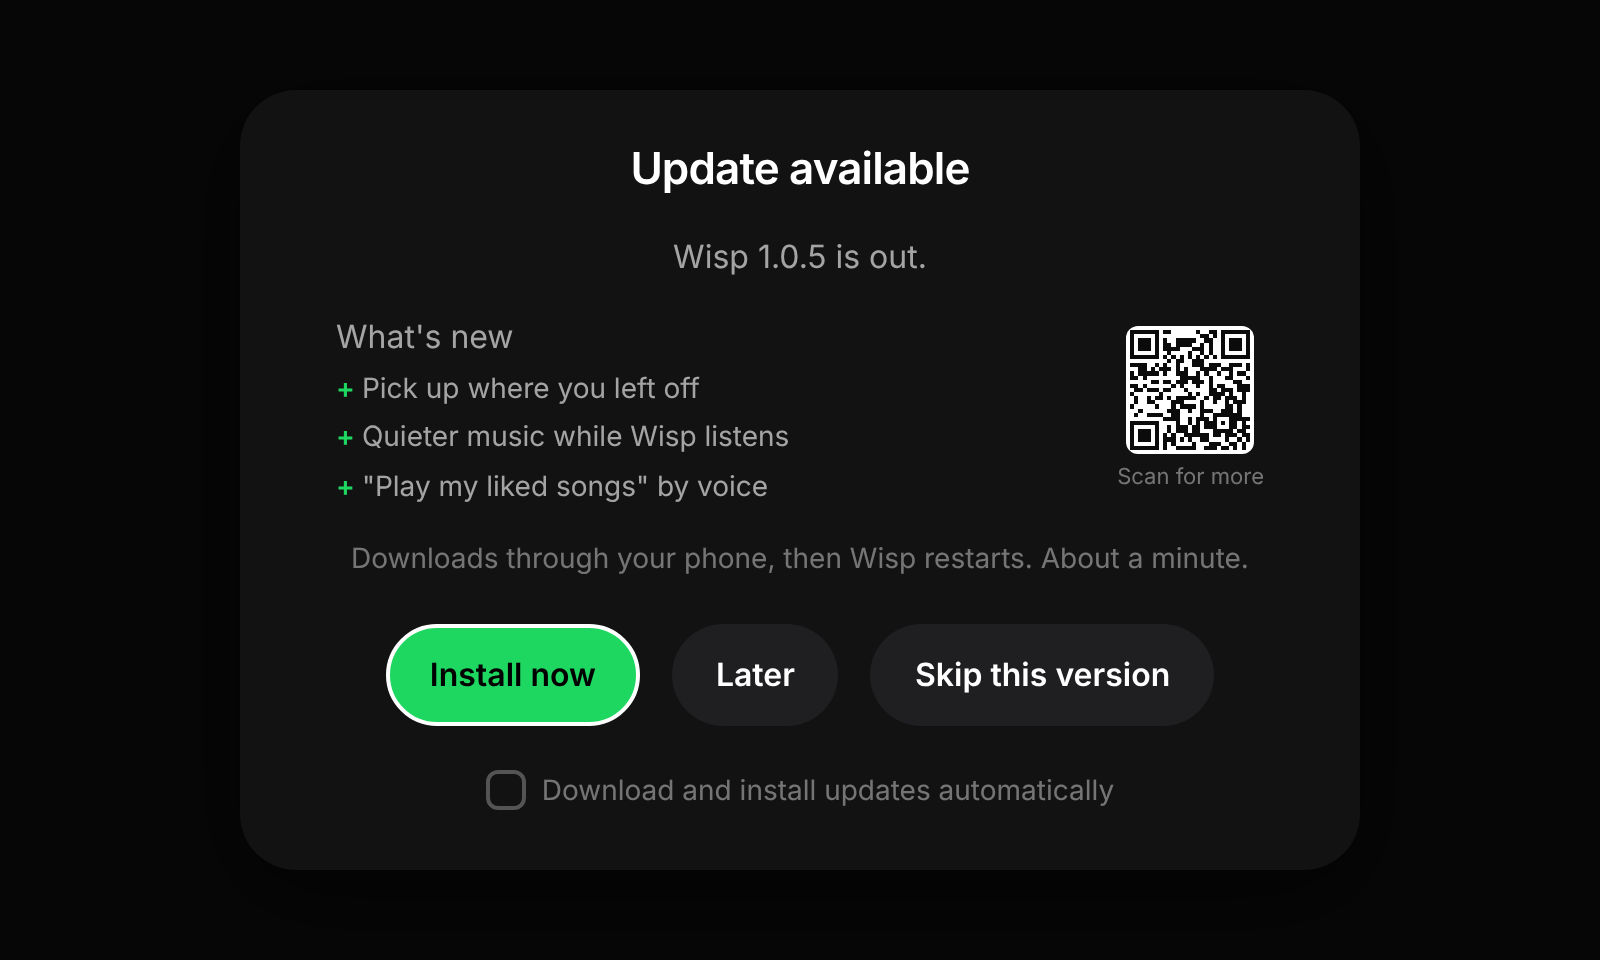
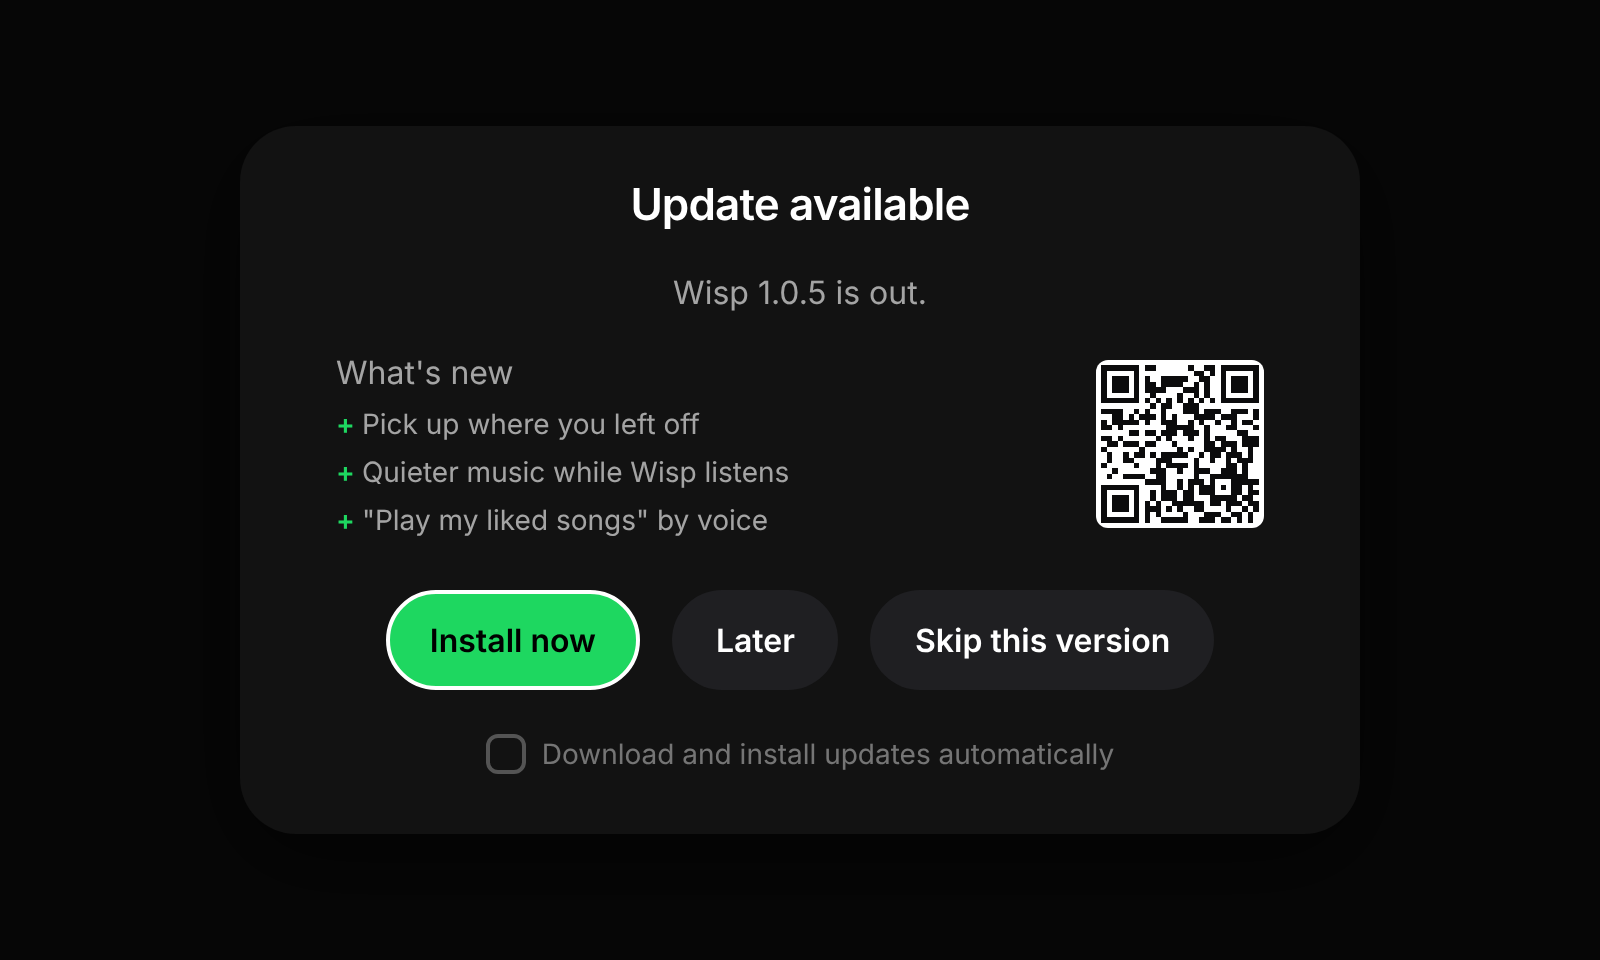
Wisp 1.0.7: search for any address
Update card without the download line and with a bigger QR; What's new
1.0.7, badges, Updates page; Wisp app 1.0.6.

Claude-Session: https://claude.ai/code/session_014AnyBR8jm1c8a5TwMw684b

diff --git a/docs/new/1.0.7.html b/docs/new/1.0.7.html
@@ -1,0 +1,121 @@
+<!doctype html>
+<html lang="en">
+<head>
+<meta charset="utf-8">
+<meta name="viewport" content="width=device-width, initial-scale=1">
+<title>What's new in Wisp 1.0.7</title>
+<meta name="description" content="Wisp 1.0.7 for the Spotify Car Thing: search for any address, Spotify that keeps playing, better notifications and voice.">
+<meta name="theme-color" content="#08080a">
+<link rel="icon" href="../logo.svg" type="image/svg+xml">
+<link rel="preconnect" href="https://fonts.googleapis.com">
+<link rel="preconnect" href="https://fonts.gstatic.com" crossorigin>
+<link href="https://fonts.googleapis.com/css2?family=Inter:wght@400;500;600;650;700&display=swap" rel="stylesheet">
+<link rel="stylesheet" href="../site.css">
+</head>
+<body>
+<header class="top">
+  <div class="wrap">
+    <a class="brand" href="../" aria-label="Wisp, home"><img src="../logo.svg" alt="">Wisp</a>
+    <a class="ver" href="1.0.7.html" title="What's new in 1.0.7" aria-current="page">1.0.7</a>
+    <nav class="links" id="nav-links" aria-label="Main">
+      <a href="../#features">Features</a>
+      <a href="../#directions">Directions</a>
+      <a href="../#addons">Add-ons</a>
+      <a href="../use.html">How to use</a>
+      <a href="../guide.html">Set up</a>
+      <a href="../studio.html">Add-on Studio</a>
+      <a href="../updates.html">Updates</a>
+    </nav>
+    <div class="top-actions">
+      <a class="gh" href="https://github.com/picovrfbt/WispOS" aria-label="Wisp on GitHub"><svg width="20" height="20" viewBox="0 0 24 24" fill="currentColor" aria-hidden="true"><path d="M12 .5a11.5 11.5 0 0 0-3.64 22.41c.58.1.79-.25.79-.56v-2c-3.2.7-3.88-1.37-3.88-1.37-.52-1.33-1.28-1.68-1.28-1.68-1.04-.71.08-.7.08-.7 1.16.08 1.77 1.19 1.77 1.19 1.03 1.76 2.7 1.25 3.36.96.1-.75.4-1.25.73-1.54-2.55-.29-5.24-1.28-5.24-5.69 0-1.26.45-2.29 1.19-3.09-.12-.29-.52-1.46.11-3.05 0 0 .97-.31 3.17 1.18a11 11 0 0 1 5.77 0c2.2-1.49 3.17-1.18 3.17-1.18.63 1.59.23 2.76.11 3.05.74.8 1.19 1.83 1.19 3.09 0 4.42-2.7 5.4-5.26 5.68.41.36.78 1.06.78 2.14v3.17c0 .31.21.67.8.56A11.5 11.5 0 0 0 12 .5z"/></svg></a>
+      <a class="btn primary dl" href="https://github.com/picovrfbt/WispOS/releases/latest">Download</a>
+      <button class="menu-btn" type="button" aria-expanded="false" aria-controls="nav-links" aria-label="Menu"><span></span></button>
+    </div>
+  </div>
+</header>
+
+<main class="doc whatsnew">
+<div class="wrap">
+  <p class="eyebrow">What's new · October 20, 2026</p>
+  <h1>Wisp 1.0.7</h1>
+  <p class="lead-doc">Search for any address, Spotify that keeps playing, notifications that behave, and a Wisp that hears you out.</p>
+  <div class="cta-row">
+    <a class="btn primary" href="../use.html#settings">How to update</a>
+    <a class="btn" href="1.0.6.html">What came in 1.0.6</a>
+  </div>
+
+  <div class="news">
+    <article class="news-card">
+      <img src="../screenshots/nav-search.png" alt="Search: an address typed with the knob, with the matches below" loading="lazy">
+      <div><span class="tag">Directions</span><h2>Search for any address</h2>
+        <p>Pick Search on Where to? and type with the knob or the screen, say "Okay Wisp, take me to…" and pick from the matches, or type it in the Wisp app.</p>
+        <a href="../use.html#directions">How it works ›</a></div>
+    </article>
+    <article class="news-card">
+      <img src="../screenshots/turn-banner.png" alt="The next turn at the top of the player" loading="lazy">
+      <div><span class="tag">Notifications</span><h2>A turn banner that gets out of the way</h2>
+        <p>The next turn shows for 5 seconds, and again as you near it. Swiped away, it stays away until the next turn.</p>
+        <a href="../use.html#directions">Directions ›</a></div>
+    </article>
+    <article class="news-card">
+      <img src="../screenshots/notifications-stacked.png" alt="Three notifications stacked, with a count" loading="lazy">
+      <div><span class="tag">Notifications</span><h2>Stacked, and swipe any way</h2>
+        <p>Several notifications pile up with the newest on top. Swipe them up, left or right. Their icons follow your accent colour.</p>
+        <a href="../use.html#settings">Settings ›</a></div>
+    </article>
+    <article class="news-card">
+      <img src="../screenshots/update-qr.png" alt="Update available, with a small QR code beside what's new" loading="lazy">
+      <div><span class="tag">Updates</span><h2>Everything that's new, on your phone</h2>
+        <p>Scan the small QR code on the update card for the full What's new page.</p>
+        <a href="../updates.html">Every update ›</a></div>
+    </article>
+  </div>
+
+  <section class="gstep">
+    <h2>New</h2>
+    <ul class="needs">
+      <li><b>Search for any address.</b> Where to? has a Search row: type with the knob (turn to a letter, press to type; turn back from A for the matches) or tap the keys. "Okay Wisp, take me to…" shows the matches to pick from when there's more than one. In the Wisp app, <b>Find a place on the Car Thing</b> sends an address you type on the phone.</li>
+      <li><b>Spotify keeps playing while Maps is open.</b> The Wisp app holds on to Spotify while it plays for the Car Thing, and starts it again if Android closes it mid-song.</li>
+      <li><b>The turn banner gets out of the way.</b> It shows for 5 seconds when a turn comes up and again as you near it. Choose 5 seconds, 10 seconds or until the turn in Settings → Navigation → Turn banner.</li>
+      <li><b>Notifications stack</b>, newest on top with a count, swipe away up, left or right, with icons in your accent colour.</li>
+      <li><b>A small QR code on the update card</b> opens the full What's new page on your phone.</li>
+    </ul>
+  </section>
+
+  <section class="gstep">
+    <h2>Better voice</h2>
+    <ul class="needs">
+      <li><b>Wisp hears you out.</b> A pause mid-sentence no longer cuts you off.</li>
+      <li><b>YouTube Music and SoundCloud, however you say it</b>: "YouTube Music, play…", "play … on YT Music", even when it's misheard.</li>
+      <li><b>Music turns right down while Wisp listens</b>, to about a third, and back before Wisp answers.</li>
+    </ul>
+  </section>
+
+  <section class="gstep">
+    <h2>Update the Wisp app too</h2>
+    <p>Wisp app 1.0.6 (update it from inside the app) brings the phone parts: Spotify kept awake, the quieter music while Wisp listens, and Find a place on the Car Thing.</p>
+    <p><a href="../updates.html">Every update ›</a></p>
+  </section>
+</div>
+</main>
+
+<footer>
+  <div class="wrap">
+    <a class="brand" href="../"><img src="../logo.svg" alt="">Wisp</a>
+    <nav>
+      <a href="../guide.html">Set up</a>
+      <a href="../use.html">How to use</a>
+      <a href="../updates.html">Updates</a>
+      <a href="../addons.html">Make an add-on</a>
+      <a href="../studio.html">Add-on Studio</a>
+      <a href="../privacy.html">Privacy</a>
+      <a href="../terms.html">Terms</a>
+      <a href="https://github.com/picovrfbt/WispOS">GitHub</a>
+      <a href="mailto:support@picovr.store">Contact</a>
+    </nav>
+    <p class="legal">Wisp is not affiliated with, endorsed by or sponsored by Spotify, Google or YouTube. Spotify and Car Thing are trademarks of Spotify AB.</p>
+  </div>
+</footer>
+<script src="../site.js" defer></script>
+</body>
+</html>

diff --git a/docs/updates.html b/docs/updates.html
@@ -17,7 +17,7 @@
 <header class="top">
   <div class="wrap">
     <a class="brand" href="./" aria-label="Wisp, home"><img src="logo.svg" alt="">Wisp</a>
-    <a class="ver" href="new/1.0.6.html" title="What's new in 1.0.6">1.0.6</a>
+    <a class="ver" href="new/1.0.7.html" title="What's new in 1.0.7">1.0.7</a>
     <nav class="links" id="nav-links" aria-label="Main">
       <a href="./#features">Features</a>
       <a href="./#directions">Directions</a>
@@ -42,10 +42,39 @@
   <p class="lead-doc">Wisp's updates come over the air: Settings &rarr; Software update. Here's everything each release brought, newest first.</p>
 
   <article class="upd-latest">
-    <div class="upd-head"><span class="tag">Latest</span><span class="upd-date">October 19, 2026</span></div>
-    <h2>Wisp 1.0.6</h2>
+    <div class="upd-head"><span class="tag">Latest</span><span class="upd-date">October 20, 2026</span></div>
+    <h2>Wisp 1.0.7</h2>
     <div class="upd-body">
-<p>The Car Thing finds your phone again by itself: when the car starts, and after a drop.</p>
+<p>Search for any address, Spotify that keeps playing, notifications that behave, and a Wisp that hears you out.</p>
+<ul>
+<li><b>Spotify keeps playing while Maps is open.</b> With the Car Thing connected and Spotify playing, the Wisp app holds on to Spotify so Android is far less likely to close it to make room for Google Maps. If it's closed anyway mid-song, the Wisp app starts it again and carries on (up to 3 times in 10 minutes), instead of the Car Thing dropping to "Pick up where you left off".
+</li>
+<li><b>Wisp hears you out.</b> Wisp waits a full second of quiet before it takes your request, so a pause mid-sentence ("play… Midnight City") no longer cuts you off.
+</li>
+<li><b>Search for any address.</b> Where to? has a Search row: type with the knob (turn to a letter, press to type; turn back from A for the matches as you type) or tap the keys. "Okay Wisp, take me to 1420 Oak Street" now shows the matches to pick from when there's more than one. And in the Wisp app, "Find a place on the Car Thing" sends an address you type on the phone to the Car Thing's Where to?. Needs the Wisp app update for the phone part.
+</li>
+<li><b>A small QR code on the update card</b> opens that version's What's new page on your phone, with everything it brings. The card is tidier too.
+</li>
+<li><b>Wisp app 1.0.6</b>: update it from inside the app for the phone parts (Spotify kept awake, music right down while Wisp listens, Find a place on the Car Thing).
+</li>
+<li><b>Music turns right down while Wisp listens.</b> With Settings → Wisp's voice → Music while listening on "Lower it", the Wisp app turns the phone's music volume down to about a third, and back when Wisp has your request (before it answers). Spotify barely got quieter before. Turn the volume yourself meanwhile and yours stays. Needs the Wisp app update.
+</li>
+<li><b>YouTube Music and SoundCloud, however you say it.</b> "On YouTube Music play X", "YouTube Music, play X", "play X in YT Music please" and misheard names ("you two music", "u tube") all work, and asking for a service always goes to that service, even for "play my liked songs on YouTube Music".
+</li>
+<li><b>The turn banner gets out of the way.</b> While directions are on, the next turn shows at the top for 5 seconds when it comes up, and again as you near it. Swiped away, it stays away until the next turn. Choose 5 seconds, 10 seconds or until the turn in Settings → Navigation → Turn banner.
+</li>
+<li><b>Swipe notifications away any way</b>: up, left or right.
+</li>
+<li><b>Notifications stack.</b> Several at once pile up with the newest on top and a count; swipe them away one by one. Their icons follow your accent colour.
+</li></ul>
+    </div>
+    <div class="cta-row"><a class="btn primary" href="new/1.0.7.html">What's new in 1.0.7</a><a class="btn" href="https://github.com/picovrfbt/WispOS/releases/tag/v1.0.7">Downloads</a></div>
+  </article>
+
+  <h2 class="upd-earlier">Earlier updates</h2>
+  <details class="upd-old">
+    <summary><span class="upd-v">Wisp 1.0.6</span><span class="upd-date">October 19, 2026</span><span class="upd-sum">The Car Thing finds your phone again by itself: when the car starts, and after a drop.</span></summary>
+    <div class="upd-body">
 <ul>
 <li><b>Reconnects after the phone drops the link.</b> When the phone ended the Bluetooth link by itself mid-drive (phones do, to save power), the Car Thing took it as you disconnecting on purpose and waited 10 minutes before trying again. Now it tries again after a minute; disconnecting from the Car Thing's own Bluetooth menu still waits the full 10.
 </li>
@@ -56,10 +85,7 @@
 <li><b>Wisp app 1.0.5.</b>
 </li></ul>
     </div>
-    <div class="cta-row"><a class="btn primary" href="new/1.0.6.html">What's new in 1.0.6</a><a class="btn" href="https://github.com/picovrfbt/WispOS/releases/tag/v1.0.6">Downloads</a></div>
-  </article>
-
-  <h2 class="upd-earlier">Earlier updates</h2>
+  </details>
   <details class="upd-old">
     <summary><span class="upd-v">Wisp 1.0.5</span><span class="upd-date">October 18, 2026</span><span class="upd-sum">Pick up where you left off, see every update coming, and talk to Wisp over the music.</span></summary>
     <div class="upd-body">

diff --git a/docs/index.html b/docs/index.html
@@ -20,7 +20,7 @@
 <header class="top">
   <div class="wrap">
     <a class="brand" href="./" aria-label="Wisp, home"><img src="logo.svg" alt="">Wisp</a>
-    <a class="ver" href="new/1.0.6.html" title="What's new in 1.0.6">1.0.6</a>
+    <a class="ver" href="new/1.0.7.html" title="What's new in 1.0.7">1.0.7</a>
     <nav class="links" id="nav-links" aria-label="Main">
       <a href="#features">Features</a>
       <a href="#directions">Directions</a>
@@ -40,7 +40,7 @@
 
 <div class="hero">
   <div class="wrap">
-    <a class="pill hero-pill" href="new/1.0.6.html"><span class="dot"></span>Wisp 1.0.6: finds your phone by itself. See what's new ›</a>
+    <a class="pill hero-pill" href="new/1.0.7.html"><span class="dot"></span>Wisp 1.0.7: search for any address. See what's new ›</a>
     <h1>The Car Thing, <span class="glow">made new.</span></h1>
     <p class="lead">Spotify switched the Car Thing off. Wisp turns it back on, and then some: your music on the knob, turn-by-turn directions, lyrics in time and a voice that answers. Free and open source.</p>
     <div class="actions">

diff --git a/wisp-ui/src/components/UpdateCard/UpdateCard.tsx b/wisp-ui/src/components/UpdateCard/UpdateCard.tsx
@@ -101,24 +101,19 @@ function UpdateCardImpl({
           <div className={styles.qr} aria-label="Scan for everything that's new">
             <QRCodeSVG
               value={whatsNewUrl(latest)}
-              size={64}
+              size={84}
               bgColor="#ffffff"
               fgColor="#0b0b0c"
               level="L"
               marginSize={1}
             />
-            <span>Scan for more</span>
           </div>
         </div>
-        <p className={styles.hint}>
-          {onInstall ? (
-            <>Downloads through your phone, then {BRAND_NAME} restarts. About a minute.</>
-          ) : (
-            <>
-              Flash from <span className={styles.hintUrl}>terbium.app</span> on your computer
-            </>
-          )}
-        </p>
+        {onInstall ? null : (
+          <p className={styles.hint}>
+            Flash from <span className={styles.hintUrl}>terbium.app</span> on your computer
+          </p>
+        )}
         <div className={styles.buttons}>
           {choices.map((c, i) => (
             <button

diff --git a/docs/new/1.0.6.html b/docs/new/1.0.6.html
@@ -16,7 +16,7 @@
 <header class="top">
   <div class="wrap">
     <a class="brand" href="../" aria-label="Wisp, home"><img src="../logo.svg" alt="">Wisp</a>
-    <a class="ver" href="1.0.6.html" title="What's new in 1.0.6" aria-current="page">1.0.6</a>
+    <a class="ver" href="1.0.7.html" title="What's new in 1.0.7">1.0.7</a>
     <nav class="links" id="nav-links" aria-label="Main">
       <a href="../#features">Features</a>
       <a href="../#directions">Directions</a>

diff --git a/docs/addons.html b/docs/addons.html
@@ -16,7 +16,7 @@
 <header class="top">
   <div class="wrap">
     <a class="brand" href="./" aria-label="Wisp, home"><img src="logo.svg" alt="">Wisp</a>
-    <a class="ver" href="new/1.0.6.html" title="What's new in 1.0.6">1.0.6</a>
+    <a class="ver" href="new/1.0.7.html" title="What's new in 1.0.7">1.0.7</a>
     <nav class="links" id="nav-links" aria-label="Main">
       <a href="./#features">Features</a>
       <a href="./#directions">Directions</a>

diff --git a/docs/guide.html b/docs/guide.html
@@ -16,7 +16,7 @@
 <header class="top">
   <div class="wrap">
     <a class="brand" href="./" aria-label="Wisp, home"><img src="logo.svg" alt="">Wisp</a>
-    <a class="ver" href="new/1.0.6.html" title="What's new in 1.0.6">1.0.6</a>
+    <a class="ver" href="new/1.0.7.html" title="What's new in 1.0.7">1.0.7</a>
     <nav class="links" id="nav-links" aria-label="Main">
       <a href="./#features">Features</a>
       <a href="./#directions">Directions</a>

diff --git a/docs/privacy.html b/docs/privacy.html
@@ -15,7 +15,7 @@
 <header class="top">
   <div class="wrap">
     <a class="brand" href="./" aria-label="Wisp, home"><img src="logo.svg" alt="">Wisp</a>
-    <a class="ver" href="new/1.0.6.html" title="What's new in 1.0.6">1.0.6</a>
+    <a class="ver" href="new/1.0.7.html" title="What's new in 1.0.7">1.0.7</a>
     <nav class="links" id="nav-links" aria-label="Main">
       <a href="./#features">Features</a>
       <a href="./#directions">Directions</a>

diff --git a/docs/studio.html b/docs/studio.html
@@ -17,7 +17,7 @@
 <header class="top">
   <div class="wrap">
     <a class="brand" href="./" aria-label="Wisp, home"><img src="logo.svg" alt="">Wisp</a>
-    <a class="ver" href="new/1.0.6.html" title="What's new in 1.0.6">1.0.6</a>
+    <a class="ver" href="new/1.0.7.html" title="What's new in 1.0.7">1.0.7</a>
     <nav class="links" id="nav-links" aria-label="Main">
       <a href="./#features">Features</a>
       <a href="./#directions">Directions</a>

diff --git a/docs/terms.html b/docs/terms.html
@@ -15,7 +15,7 @@
 <header class="top">
   <div class="wrap">
     <a class="brand" href="./" aria-label="Wisp, home"><img src="logo.svg" alt="">Wisp</a>
-    <a class="ver" href="new/1.0.6.html" title="What's new in 1.0.6">1.0.6</a>
+    <a class="ver" href="new/1.0.7.html" title="What's new in 1.0.7">1.0.7</a>
     <nav class="links" id="nav-links" aria-label="Main">
       <a href="./#features">Features</a>
       <a href="./#directions">Directions</a>

diff --git a/docs/use.html b/docs/use.html
@@ -16,7 +16,7 @@
 <header class="top">
   <div class="wrap">
     <a class="brand" href="./" aria-label="Wisp, home"><img src="logo.svg" alt="">Wisp</a>
-    <a class="ver" href="new/1.0.6.html" title="What's new in 1.0.6">1.0.6</a>
+    <a class="ver" href="new/1.0.7.html" title="What's new in 1.0.7">1.0.7</a>
     <nav class="links" id="nav-links" aria-label="Main">
       <a href="./#features">Features</a>
       <a href="./#directions">Directions</a>

diff --git a/docs/new/1.0.1.html b/docs/new/1.0.1.html
@@ -16,7 +16,7 @@
 <header class="top">
   <div class="wrap">
     <a class="brand" href="../" aria-label="Wisp, home"><img src="../logo.svg" alt="">Wisp</a>
-    <a class="ver" href="1.0.6.html" title="What's new in 1.0.6">1.0.6</a>
+    <a class="ver" href="1.0.7.html" title="What's new in 1.0.7">1.0.7</a>
     <nav class="links" id="nav-links" aria-label="Main">
       <a href="../#features">Features</a>
       <a href="../#directions">Directions</a>
